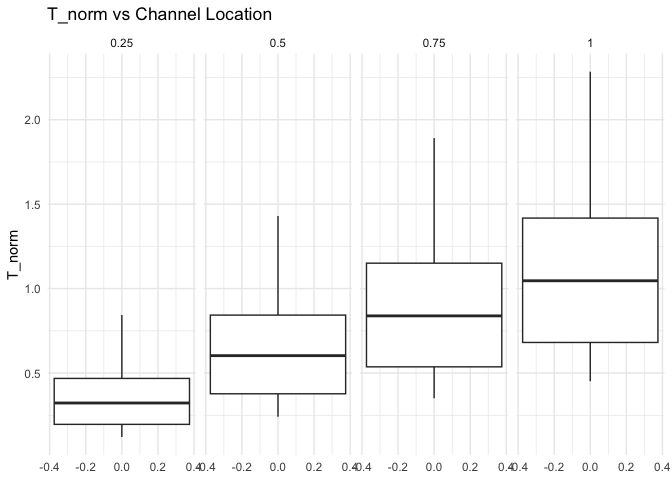
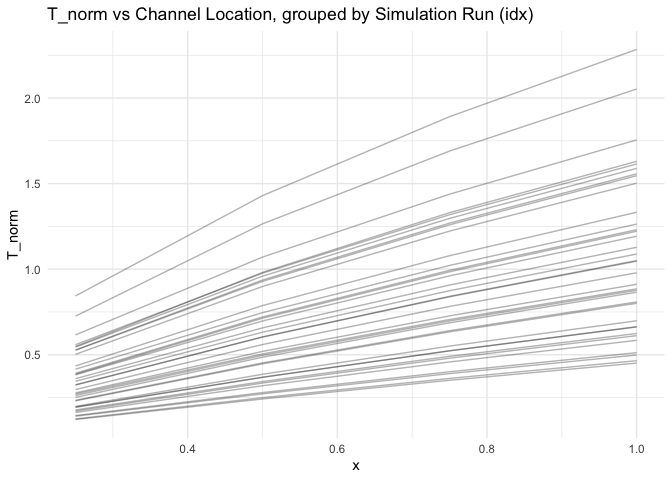
[20250430] Resubmission c11.

diff --git a/challenges/c11-psaap-assignment.md b/challenges/c11-psaap-assignment.md
@@ -277,11 +277,9 @@ of fluid, for different experimental settings (e.g. different dimensions
 ##       each identified by different values of idx
 
 df_psaap %>% 
-  ggplot(aes(T_norm)) +
-  geom_boxplot() +
-  facet_grid(~ x) +
-  coord_flip() +
-  ggtitle("T_norm vs Channel Location") +
+  ggplot(aes(x = x, y = T_norm, group = idx)) +
+  geom_line(alpha = 0.3) +
+  ggtitle("T_norm vs Channel Location, grouped by Simulation Run (idx)") +
   theme_minimal()
 ```
 
@@ -350,7 +348,7 @@ mse(fit_nonphysical, df_psaap)
 **Observations**:
 
 - Which model is *most accurate*? Which is *least accurate*?
-  - `fit_cheat` is the most accurate; `fit_baseline` is the least
+  - `fit_cheat` is the most accurate; `fit_nonphysical` is the least
     accurate.
 - What *Category* of variable is `avg_T`? Why is it such an effective
   predictor?
@@ -615,8 +613,9 @@ bind_rows(
   - q4 model is much more confident.
 - How many predictors does the `fit_simple` model need in order to make
   a prediction? What about your model `fit_q4`?
-  - `fit_simple` only uses 1 prediction, `x`, whereas `fit_q4` uses 4
-    predictions, `idx`, `avg_q`, `avg_T`, and `rms_T`.
+  - `fit_simple` only uses 1 prediction, `x`, whereas `fit_q4` uses
+    every predictor but `idx`, `avg_q`, `avg_T`, and `rms_T`. This means
+    fit_q4 uses 17 predictors.
 
 Based on these results, you might be tempted to always throw every
 reasonable variable into the model. For some cases, that might be the
